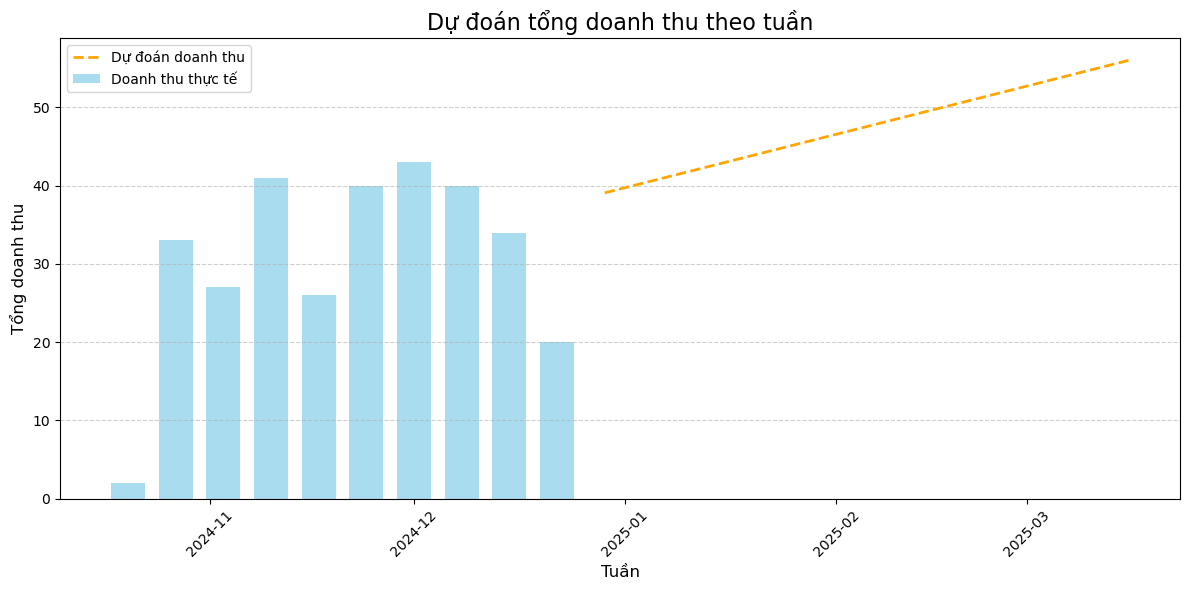
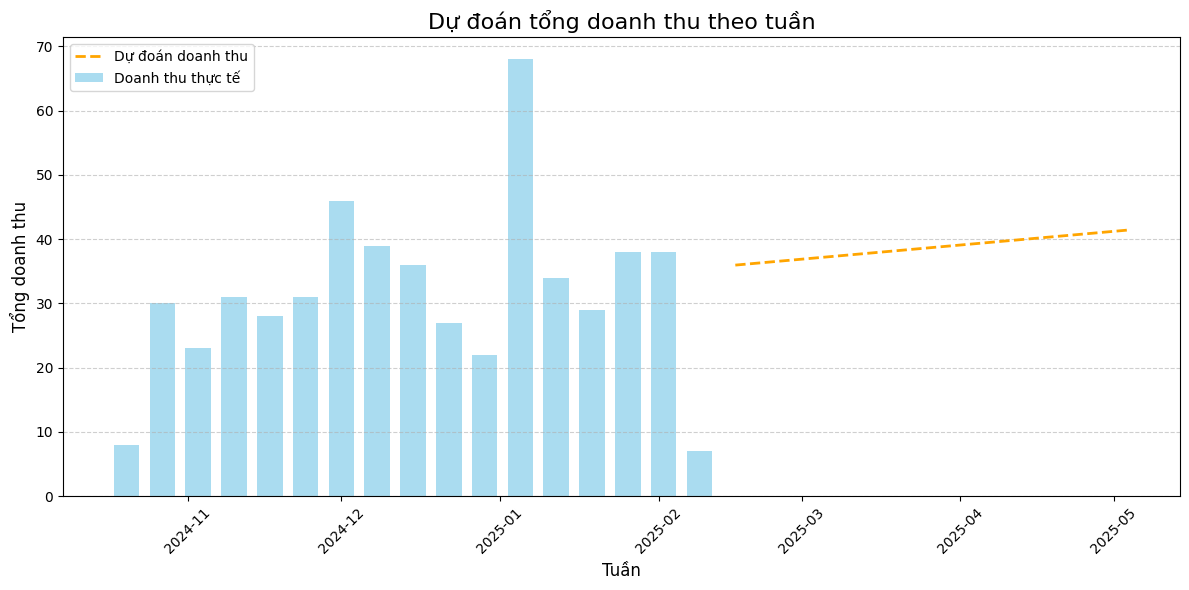
Big Update Data

diff --git a/database/seeders/OrderSeeder.php b/database/seeders/OrderSeeder.php
@@ -17,19 +17,36 @@ class OrderSeeder extends Seeder
         $insertData = [];
         $baseDate = Carbon::parse('2024-10-20 13:42:36'); // Ngày bắt đầu
 
-        for ($i = 0; $i < 80; $i++) {
+        // Danh sách tên mẫu để random
+        $names = [
+            'Nguyễn Văn A', 'Trần Thị B', 'Lê Hoàng C', 'Phạm Hồng D',
+            'Hoàng Văn E', 'Đỗ Thị F', 'Bùi Quốc G', 'Vũ Ngọc H',
+            'Trương Thị K', 'Ngô Anh M', 'Mai Quang N', 'Phạm Thu O',
+            'Đinh Tiến P', 'Trần Văn Q', 'Nguyễn Minh R', 'Lý Hồng S'
+        ];
+
+        for ($i = 0; $i < 100; $i++) {
+            $userId = rand(1, 100); // Random user_id từ 1 đến 100
+            $gender = rand(0, 1); // Random giới tính (0: Nữ, 1: Nam)
+            $phoneNumber = '03' . rand(10000000, 99999999); // Random số điện thoại 10 chữ số
+            $shippingAddress = 'Địa chỉ số ' . rand(1, 100) . ', Hà Nội'; // Địa chỉ giả lập
+            $paymentMethods = ['cod', 'QR']; // Các phương thức thanh toán
+            $paymentMethod = $paymentMethods[array_rand($paymentMethods)]; // Chọn random 1 phương thức thanh toán
+            $status = 3; // Random trạng thái từ 1 đến 5
+            $totalPrice = rand(50, 1000) * 1000; // Random tổng giá trị từ 50.000 đến 1.000.000
+
             $insertData[] = [
-                'user_id' => 2,
-                'customer_name' => 'Nam',
-                'gender' => 1,
-                'phone_number' => '0382027003',
-                'shipping_address' => 'Tứ Liên Âu Cơ Tây Hồ',
-                'payment_method' => 'cod',
+                'user_id' => $userId,
+                'customer_name' => $names[array_rand($names)], // Chọn ngẫu nhiên tên từ danh sách
+                'gender' => $gender,
+                'phone_number' => $phoneNumber,
+                'shipping_address' => $shippingAddress,
+                'payment_method' => $paymentMethod,
                 'note' => null,
-                'status' => 3,
-                'total_price'=> 100,
-                'created_at' => $baseDate->addHours(9)->format('Y-m-d H:i:s'),
-                'updated_at' => $baseDate->addHours(9)->addSeconds(2)->format('Y-m-d H:i:s'), // Tăng dần 12 tiếng
+                'status' => $status,
+                'total_price' => $totalPrice,
+                'created_at' => $baseDate->addHours(rand(1, 24))->format('Y-m-d H:i:s'), // Random thời gian trong khoảng 1 tiếng
+                'updated_at' => $baseDate->addHours(rand(1, 24))->format('Y-m-d H:i:s'), // Random thời gian cập nhật
                 'deleted_at' => null,
             ];
         }

diff --git a/database/seeders/OrderDetailSeeder.php b/database/seeders/OrderDetailSeeder.php
@@ -18,28 +18,47 @@ class OrderDetailSeeder extends Seeder
     {
         $orders = Order::all();
         $laptops = Laptop::with('attributes')->get();
+
+        if ($orders->isEmpty() || $laptops->isEmpty()) {
+            // Dừng nếu không có orders hoặc laptops
+            return;
+        }
+
         foreach ($orders as $order) {
-            $totalOrderPrice = 0;
-            for($i = 0; $i < rand(1,3) ; $i++) {
+            $totalOrderPrice = 0; // Tổng giá trị đơn hàng
+            $orderDetails = []; // Tập hợp các bản ghi chi tiết đơn hàng
+
+            for ($i = 0; $i < rand(1, 5); $i++) {
                 $randomLaptop = $laptops->random();
-                $dealPriceAttribute = $randomLaptop->attributes->firstWhere('name','Deal Price');
-                $price = $dealPriceAttribute ? (int) $dealPriceAttribute->pivot->value : 42000000;
+
+                // Lấy giá "Deal Price" nếu có
+                $dealPriceAttribute = $randomLaptop->attributes->firstWhere('name', 'Deal Price');
+                $price = $dealPriceAttribute ? (int)$dealPriceAttribute->pivot->value : 42000000;
+
                 $quantity = rand(1, 3);
-                $totalPrice = $price * $quantity; // Tính tổng giá trị
+                $totalPrice = $price * $quantity;
+
+                // Thêm vào tổng giá trị đơn hàng
                 $totalOrderPrice += $totalPrice;
-                DB::table('order_details')->insert([
+
+                // Tạo bản ghi chi tiết đơn hàng
+                $orderDetails[] = [
                     'order_id' => $order->id,
                     'product_type' => 'laptops',
-                    'product_id' => $randomLaptop->id,  // Sử dụng ID của laptop đã chọn
+                    'product_id' => $randomLaptop->id,
                     'quantity' => $quantity,
                     'price' => $totalPrice,
                     'created_at' => $order->created_at,
                     'updated_at' => $order->updated_at,
                     'deleted_at' => null,
-                ]);
-            $order->total_price = $totalOrderPrice;
-            $order->save();
+                ];
             }
+
+            // Thực hiện ghi dữ liệu chi tiết đơn hàng
+            DB::table('order_details')->insert($orderDetails);
+
+            // Cập nhật tổng giá trị đơn hàng
+            $order->update(['total_price' => $totalOrderPrice]);
         }
     }
 }

diff --git a/database/seeders/UserSeeder.php b/database/seeders/UserSeeder.php
@@ -1,0 +1,24 @@
+<?php
+namespace Database\Seeders;
+
+use App\Models\User;
+use Illuminate\Database\Seeder;
+use Illuminate\Support\Facades\DB;
+
+class UserSeeder extends Seeder
+{
+    public function run(): void
+    {
+        for ($i = 2; $i <= 100; $i++) {
+            User::factory()->create([
+                'name' => 'user' . $i,
+                'password' => bcrypt('user' . $i), // Mã hóa mật khẩu
+                'email' => 'user' . $i . '@example.com',
+                'gender' => $i % 2 == 0 ? 1 : 0, // Xen kẽ giới tính: 1 (nam), 0 (nữ)
+                'address' => 'Hà Nội, Địa chỉ số ' . $i,
+                'phone' => '012345678' . str_pad($i, 2, '0', STR_PAD_LEFT), // Tạo số điện thoại với đuôi 2 chữ số
+            ]);
+        }
+    }
+}
+?>

diff --git a/database/seeders/DatabaseSeeder.php b/database/seeders/DatabaseSeeder.php
@@ -55,10 +55,14 @@ class DatabaseSeeder extends Seeder
         
         $this->call(CoolingSeeder::class);
 
-        $this->call(AccessorySeeder::class);  
+        $this->call(AccessorySeeder::class);
 
-        // $this->call(OrderSeeder::class);   
+        $this->call(UserSeeder::class);
 
-        // $this->call(OrderDetailSeeder::class);     
+        $this->call(OrderSeeder::class);   
+
+        $this->call(OrderDetailSeeder::class);
+        
+        
     }
 }
